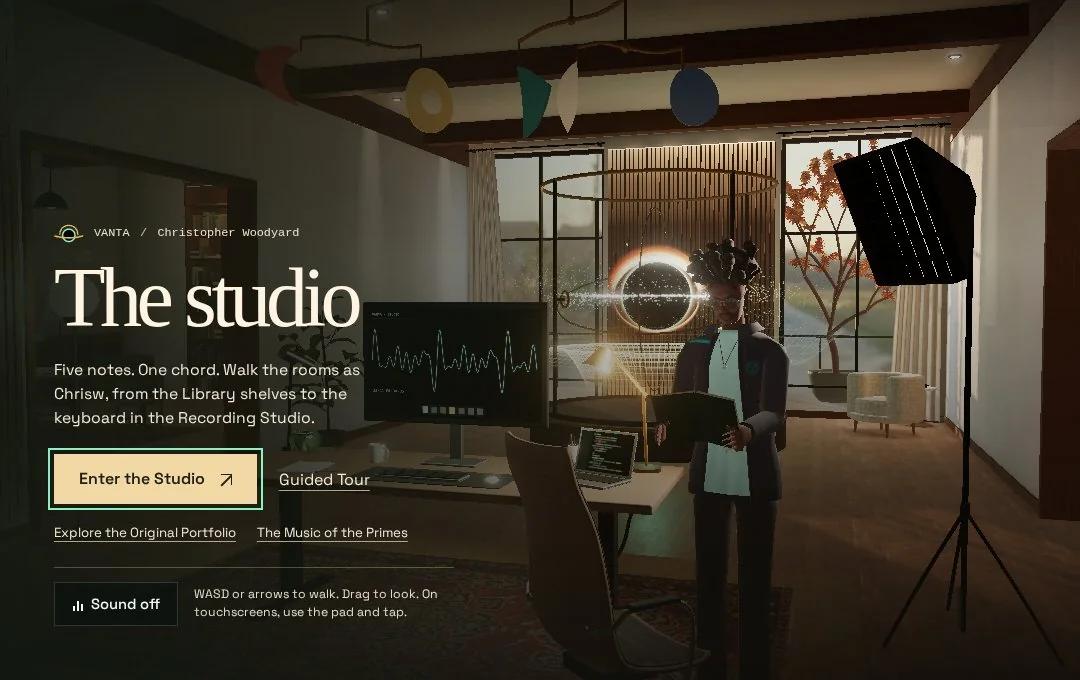
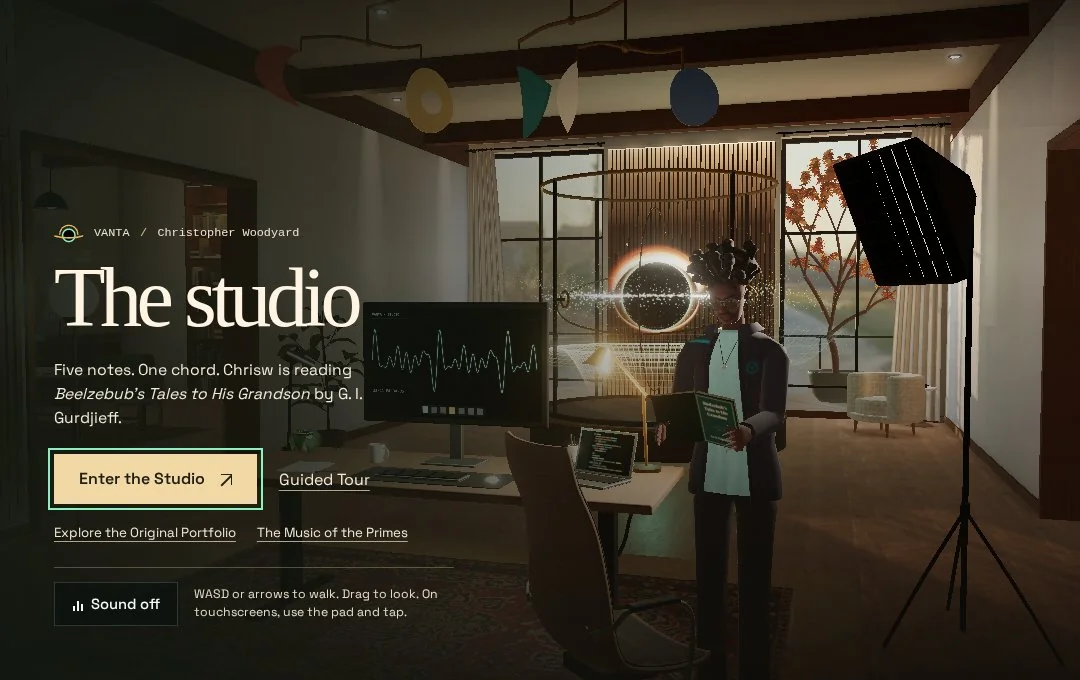
Give Chrisw his copy of Beelzebub’s Tales to His Grandson

Changed region(s): [[0.0306, 0.525, 0.3361, 0.6485], [0.5194, 0.4015, 0.7333, 0.4632], [0.6417, 0.5868, 0.6722, 0.6485]]

diff --git a/lib/studio/scene/chrisw.js b/lib/studio/scene/chrisw.js
@@ -1,6 +1,8 @@
 // The original Pine Gap rig faces +Z; a studio walker at yaw zero faces -Z.
 import { BoxGeometry, Euler, Group, Mesh, MeshStandardMaterial, Quaternion, Vector3 } from "three";
 import { GLTFLoader } from "three/examples/jsm/loaders/GLTFLoader.js";
+import { studioReading } from "../../../data/studioReading";
+import { createLabel } from "./textures";
 import { disposeTree } from "./kit";
 
 const HEIGHT = 1.8542; // 6 ft 1 in
@@ -9,6 +11,33 @@ const UP = new Vector3(0, 0, 1);
 
 function makeBook() {
   const book = new Group();
+  book.name = `${studioReading.title} — ${studioReading.author}`;
+  const jacket = createLabel({
+    width: 512, height: 720,
+    draw(ctx, { width, height, wrap }) {
+      ctx.fillStyle = "#205549";
+      ctx.fillRect(0, 0, width, height);
+      ctx.strokeStyle = "#d9bb7b";
+      ctx.lineWidth = 4;
+      ctx.strokeRect(19, 19, width - 38, height - 38);
+      ctx.lineWidth = 1.5;
+      ctx.strokeRect(29, 29, width - 58, height - 58);
+      ctx.textAlign = "center";
+      ctx.fillStyle = "#fff0c9";
+      ctx.font = "bold 62px Georgia, serif";
+      wrap(studioReading.title, width - 84).forEach((line, i) =>
+        ctx.fillText(line, width / 2, 138 + i * 76));
+      ctx.beginPath();
+      ctx.ellipse(256, 455, 73, 30, 0, 0, 2 * Math.PI);
+      ctx.moveTo(276, 455);
+      ctx.arc(256, 455, 20, 0, 2 * Math.PI);
+      ctx.stroke();
+      ctx.font = "bold 45px Georgia, serif";
+      ctx.fillText(studioReading.author, width / 2, 623);
+    },
+  });
+  const front = new MeshStandardMaterial({ map: jacket, roughness: 0.82, emissive: 0xffffff,
+    emissiveMap: jacket, emissiveIntensity: 0.27 });
   const paper = new MeshStandardMaterial({ color: 0xe8d5af, roughness: 0.95 });
   const cloth = new MeshStandardMaterial({ color: 0x22554b, roughness: 0.82 });
   for (const side of [-1, 1]) {
@@ -16,7 +45,9 @@ function makeBook() {
     half.rotation.y = -side * 0.25;
     const leaves = new Mesh(new BoxGeometry(0.15, 0.21, 0.016), paper);
     leaves.position.set(side * 0.075, 0, -0.01);
-    const cover = new Mesh(new BoxGeometry(0.155, 0.218, 0.005), cloth);
+    // +Z is the outside of the jacket, facing away from the reader.
+    const cover = new Mesh(new BoxGeometry(0.155, 0.218, 0.005),
+      side === 1 ? [cloth, cloth, cloth, cloth, front, cloth] : cloth);
     cover.position.x = side * 0.0775;
     half.add(leaves, cover);
     book.add(half);

diff --git a/components/studio/StudioIntro.js b/components/studio/StudioIntro.js
@@ -1,4 +1,5 @@
 import styles from "../../styles/Studio.module.css";
+import { studioReading } from "../../data/studioReading";
 import HorizonMark from "../HorizonMark";
 
 // The first screen: the room, dimly lit, behind three plain choices. It asks
@@ -13,7 +14,7 @@ export default function StudioIntro({ onEnter, onTour, soundControl, webgl }) {
         </p>
         <h1 id="studio-title" className={styles.introTitle}>The studio</h1>
         <p className={styles.introLede}>
-          Five notes. One chord. Walk the rooms as Chrisw, from the Library shelves to the keyboard in the Recording Studio.
+          Five notes. One chord. Chrisw is reading <cite>{studioReading.title}</cite> by {studioReading.author}.
         </p>
         <div className={styles.introActions}>
           <button type="button" className={styles.primary} onClick={onEnter} autoFocus>

diff --git a/data/studioReading.js b/data/studioReading.js
@@ -1,0 +1,5 @@
+// The volume Chrisw holds in the opening scene.
+export const studioReading = {
+  title: "Beelzebub’s Tales to His Grandson",
+  author: "G. I. Gurdjieff",
+};

diff --git a/docs/studio.md b/docs/studio.md
@@ -327,7 +327,7 @@ node scripts/bakeStudioContact.cjs http://localhost:3000
 
 ### Walking as Chrisw
 
-Enter the Studio to walk as Christopher Woodyard’s 6 ft 1 in avatar. He reads by the desk
+Enter the Studio to walk as Christopher Woodyard’s 6 ft 1 in avatar. He reads G. I. Gurdjieff’s *Beelzebub’s Tales to His Grandson* by the desk
 in the opening shot. Once you enter, your movement drives his stride and your look direction
 guides his gaze. Walk to the glass to look outside, open a work in the Library, or sit at the
 Hall computer. Object views keep the framing of the book, screen, or instrument.
